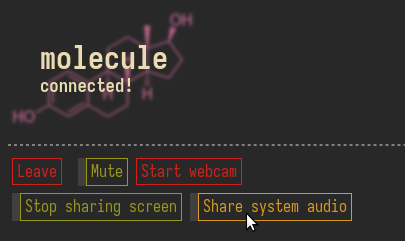
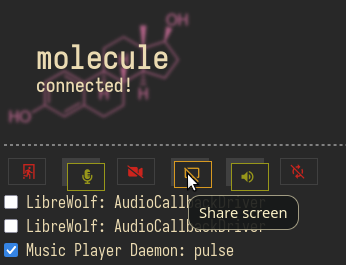
update readme

Changed region(s): [[0.0, 0.5809, 1.0, 0.9876], [0.0, 0.029, 1.0, 0.5519]]

diff --git a/backend/pipewire.c b/backend/pipewire.c
@@ -29,7 +29,6 @@ typedef struct {
 #include <err.h>
 #include <pthread.h>
 #include <strings.h>
-#include <unistd.h>
 
 #include <pipewire/pipewire.h>
 #include <spa/param/audio/format-utils.h>
@@ -373,7 +372,7 @@ void setLinkState(int nodeID, bool link) {
 
 int main(void) {
 	initAudioCapture();
-	getchar();
+	pause();
 }
 
 void Broadcast(char*, uint32_t len) {
